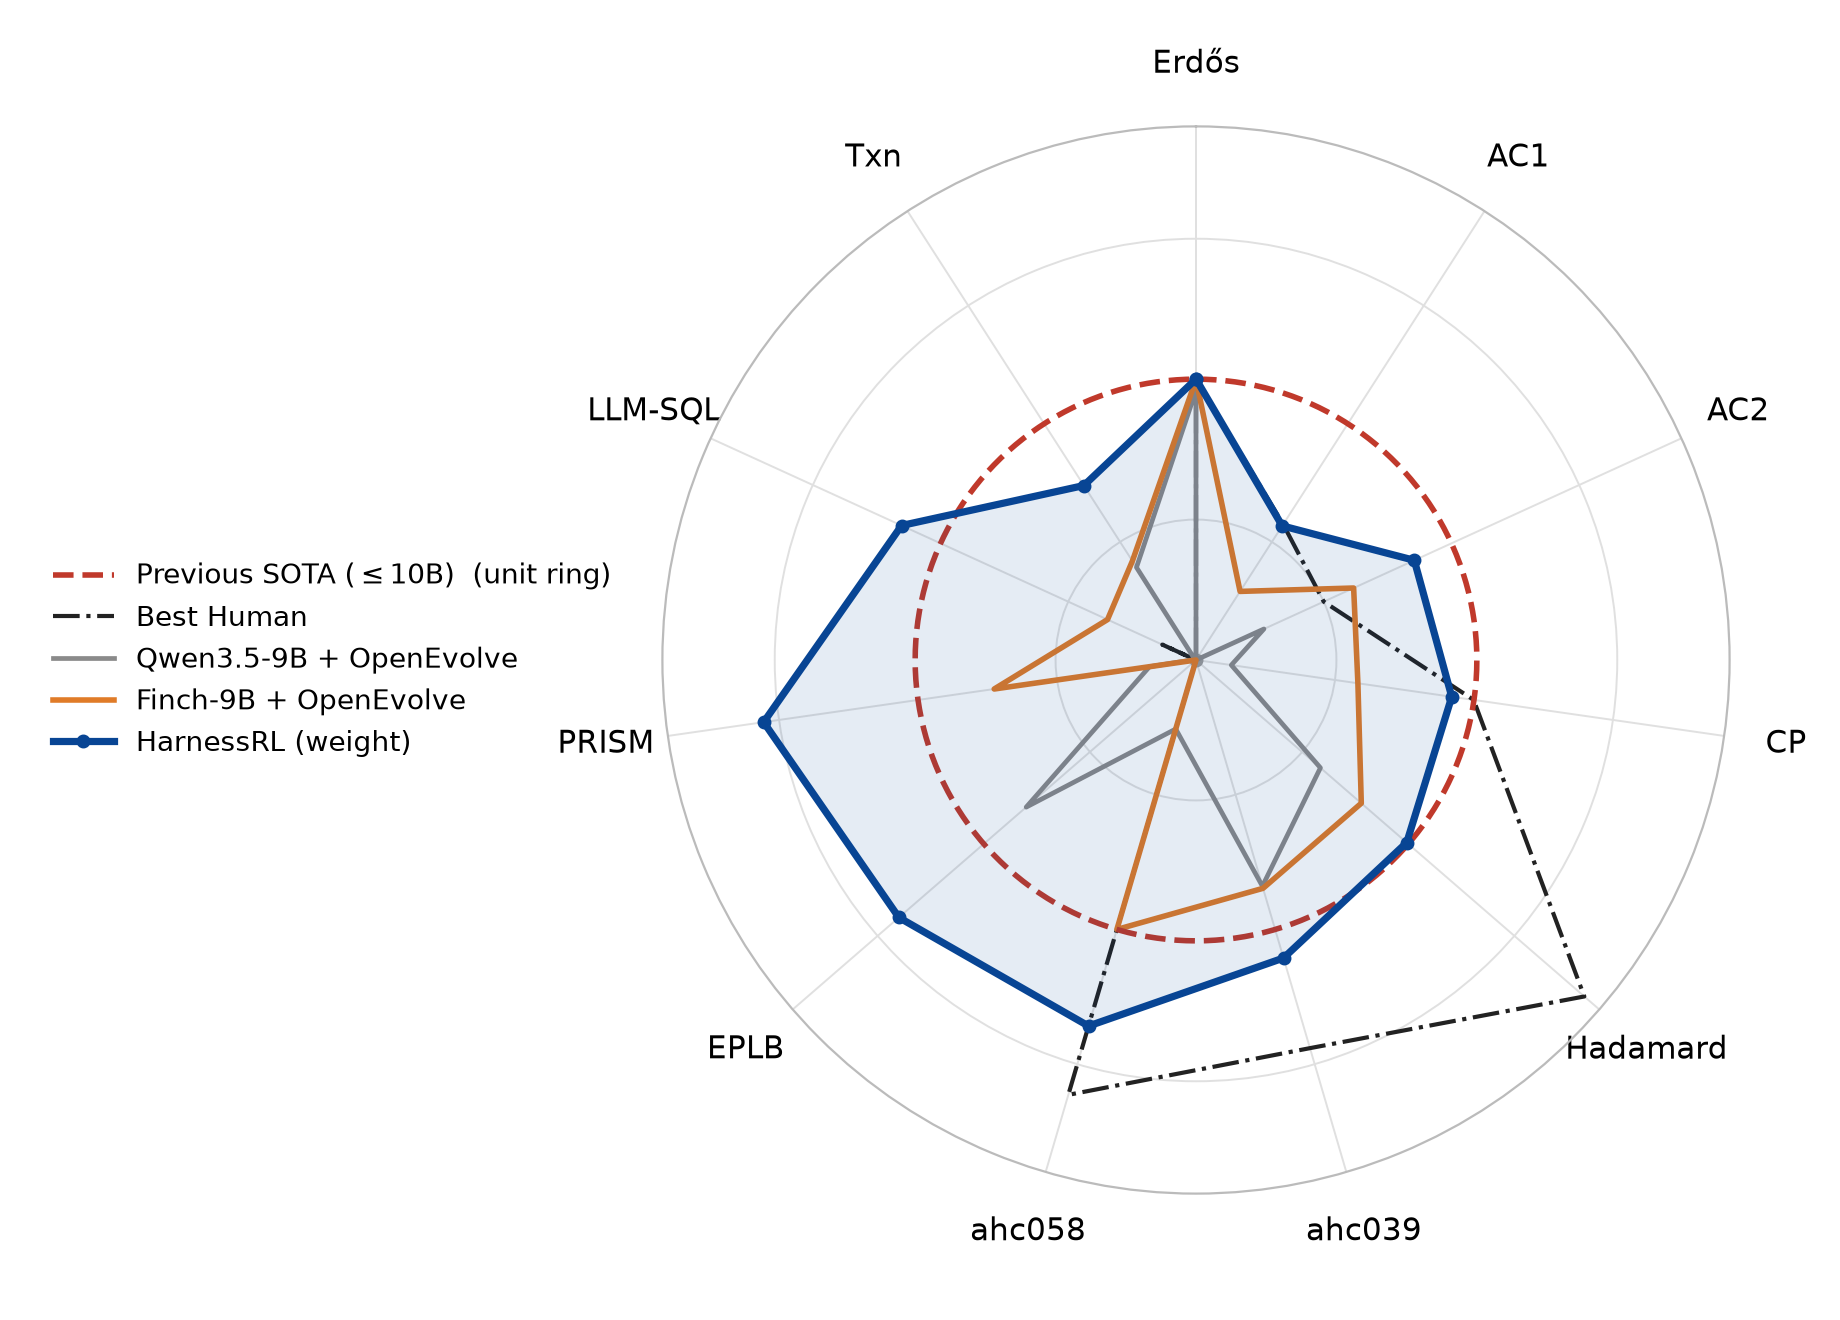
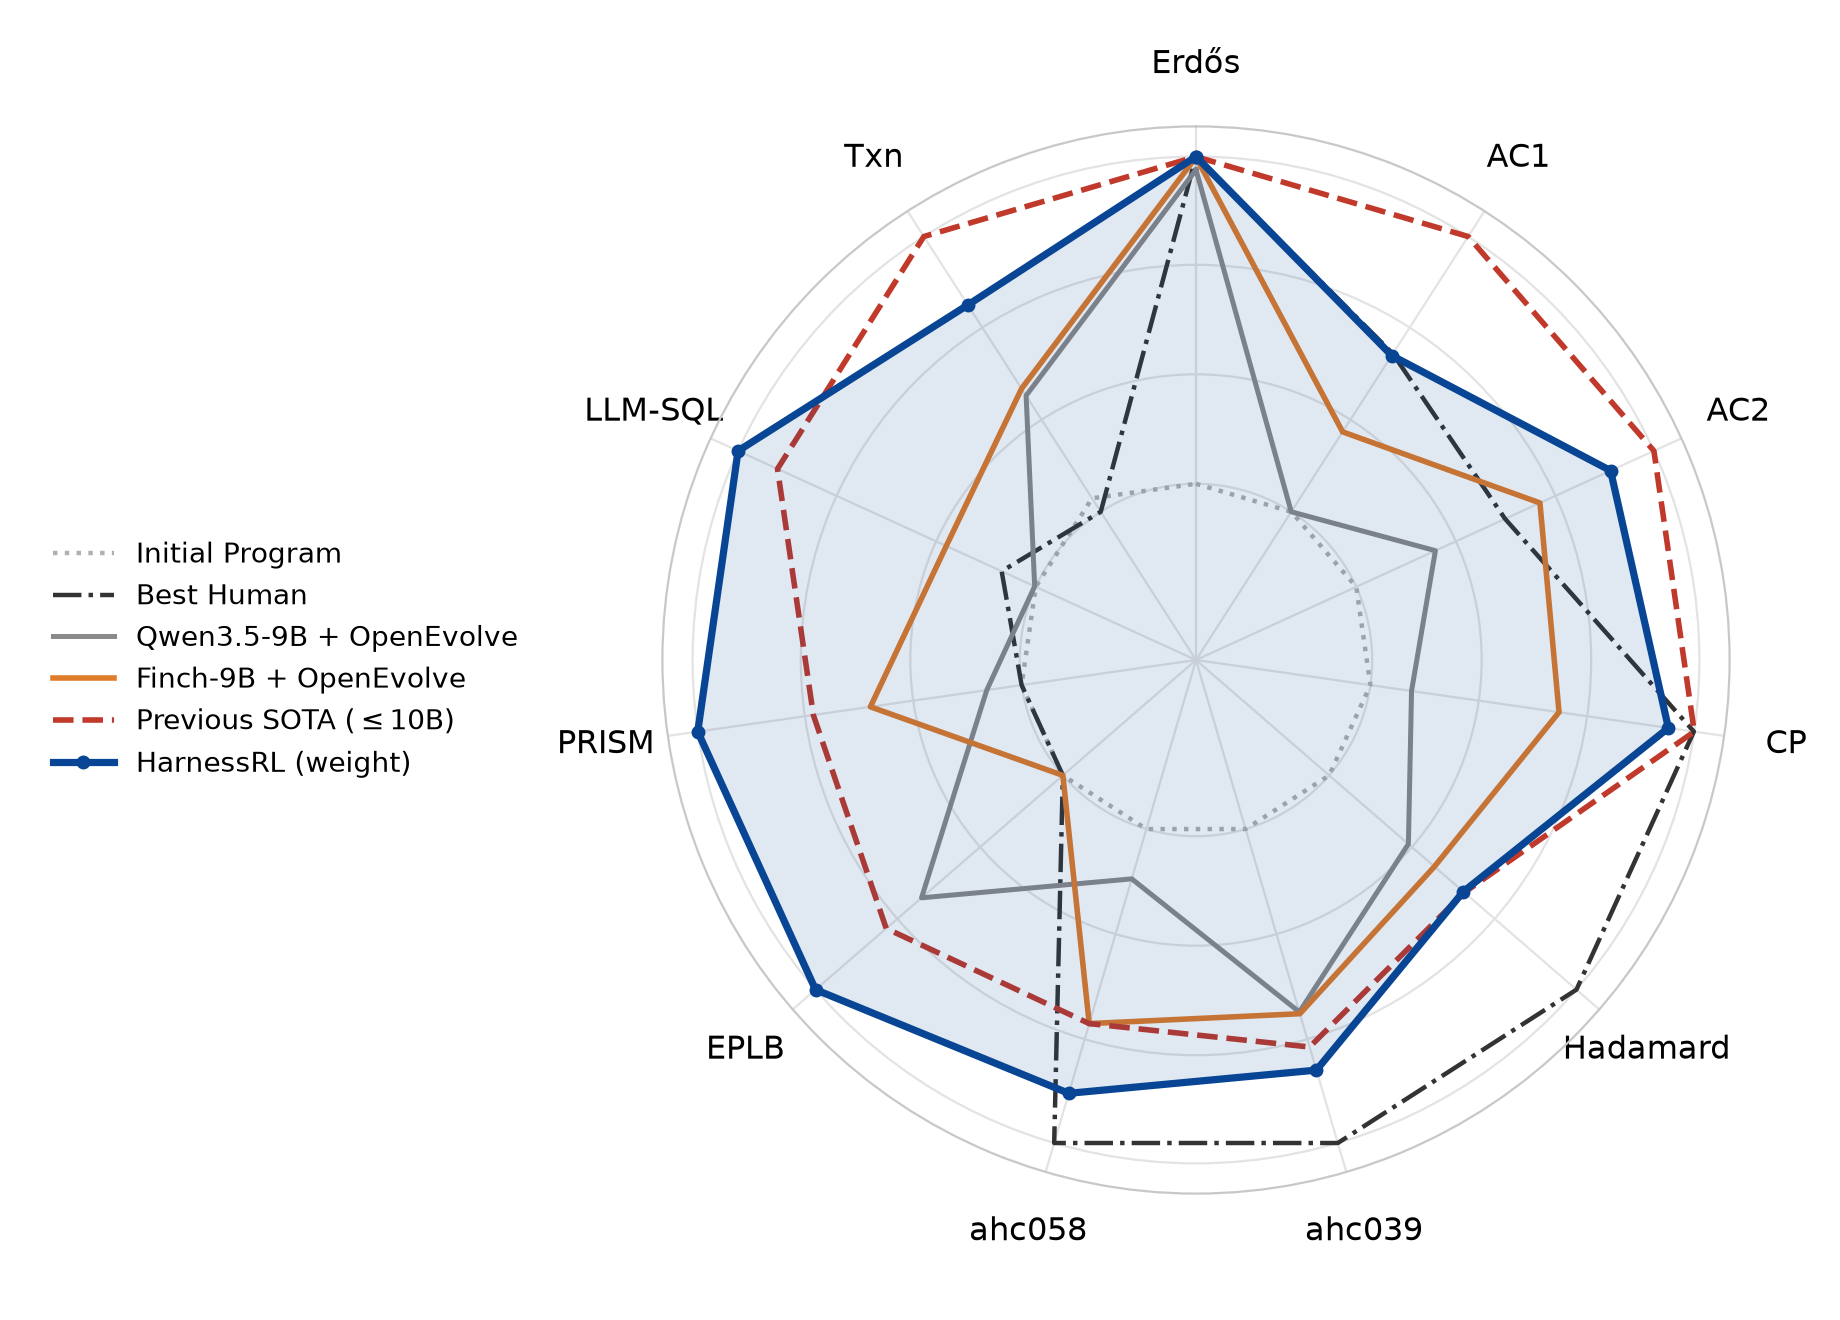
radar: conventional banded rescale, no reference ring
The seed-anchored version collapsed weak systems into the center and the
unit ring read poorly. Each axis now linearly rescales the plotted systems
into the [0.35, 1] band, so the initial program shows as an inner dotted
baseline instead of a point, previous SOTA returns to an ordinary red
dashed polygon, and no artificial circle is drawn. Caption updated to the
within-axis-comparison semantics.

diff --git a/scripts/draw_radar_method_ablation.py b/scripts/draw_radar_method_ablation.py
@@ -1,13 +1,10 @@
 #!/usr/bin/env python3
-"""Method-ablation radar over the 11 tasks.
+"""Method-comparison radar over the 11 tasks.
 
 Values are transcribed from papers/tables/proposer_update.tex (campaign-best
-protocol). Normalization gives every axis the same semantic anchors:
-    0 (center)  = Initial Program (the seed)
-    1 (ring)    = Previous <=10B SOTA  -> drawn as the red dashed unit circle
-so a series outside the ring sets a new state of the art on that axis.
-Minimization tasks (Erdos, AC1) are handled by measuring progress seed->SOTA.
-Scores below the seed clip at the center.
+protocol). Each axis linearly rescales the plotted systems into the band
+[R0, 1] (direction-corrected so outward is always better), so no system
+collapses to the center and shapes are comparable within an axis.
 """
 import numpy as np
 import matplotlib
@@ -16,64 +13,65 @@ import matplotlib.pyplot as plt
 
 TASKS = ["Erdős", "AC1", "AC2", "CP", "Hadamard",
          "ahc039", "ahc058", "EPLB", "PRISM", "LLM-SQL", "Txn"]
-
-INITIAL = [0.495056, 1.5186, 0.8558, 0.959764, 0.143275, 534850, 0,
-           0.1265, 21.89, 0.6856, 2824.86]
-SOTA    = [0.380932, 1.5031, 0.9472, 2.635983, 0.576400, 557168, 525286896,
-           0.1270, 24.70, 0.7341, 4761.90]
+LOWER_BETTER = {"Erdős", "AC1"}
+R0 = 0.35
 
 SERIES = {
+ "Initial Program":
+   ([0.495056, 1.5186, 0.8558, 0.959764, 0.143275, 534850, 0,
+     0.1265, 21.89, 0.6856, 2824.86],
+    dict(color="#b0b0b0", ls=":",  lw=1.6, zorder=3)),
  "Best Human":
    ([0.380927, 1.5097, 0.9015, 2.634000, 0.935673, 566997, 847674723,
      0.1265, 21.89, 0.6920, 2724.80],
-    dict(color="#222222", ls="-.", lw=1.5, zorder=4)),
+    dict(color="#333333", ls="-.", lw=1.6, zorder=4)),
  "Qwen3.5-9B + OpenEvolve":
    ([0.385512, 1.5186, 0.8801, 1.172702, 0.397184, 553582, 134486700,
      0.1269, 22.36, 0.6858, 3584.23],
-    dict(color="#8a8a8a", ls="-",  lw=1.7, zorder=5)),
+    dict(color="#8a8a8a", ls="-",  lw=1.8, zorder=5)),
  "Finch-9B + OpenEvolve":
    ([0.381100, 1.5141, 0.9122, 1.936000, 0.480585, 553759, 525286896,
      0.1265, 23.93, 0.7024, 3636.36],
     dict(color="#e07b28", ls="-",  lw=2.0, zorder=6)),
+ "Previous SOTA ($\\leq$10B)":
+   ([0.380932, 1.5031, 0.9472, 2.635983, 0.576400, 557168, 525286896,
+     0.1270, 24.70, 0.7341, 4761.90],
+    dict(color="#c0392b", ls="--", lw=2.0, zorder=7)),
  "HarnessRL (weight)":
    ([0.380919, 1.5098, 0.9339, 2.502000, 0.573283, 559534, 713552303,
      0.1272, 26.26, 0.7415, 4255.32],
-    dict(color="#084594", ls="-",  lw=2.6, zorder=8, fill=True)),
+    dict(color="#084594", ls="-",  lw=2.6, zorder=9, fill=True)),
 }
 
-def norm(vals):
-    out = []
-    for v, s0, s1 in zip(vals, INITIAL, SOTA):
-        out.append(max((v - s0) / (s1 - s0), 0.0))   # sign flips fall out
-    return np.array(out)
+vals = np.array([v for v, _ in SERIES.values()], dtype=float)
+norm = np.zeros_like(vals)
+for j, task in enumerate(TASKS):
+    col = vals[:, j].copy()
+    if task in LOWER_BETTER:
+        col = -col
+    lo, hi = col.min(), col.max()
+    norm[:, j] = R0 + (1 - R0) * (col - lo) / (hi - lo)
 
 N = len(TASKS)
 ang = np.linspace(0, 2 * np.pi, N, endpoint=False)
 ang_c = np.concatenate([ang, ang[:1]])
-RMAX = 1.9
 
 fig, ax = plt.subplots(figsize=(9.2, 6.6), subplot_kw=dict(polar=True))
 ax.set_theta_offset(np.pi / 2); ax.set_theta_direction(-1)
-ax.set_ylim(0, RMAX)
-ax.set_yticks([0.5, 1.5]); ax.set_yticklabels([])
-ax.grid(color="#e0e0e0", lw=0.7)
-ax.spines["polar"].set_color("#bbbbbb")
-ax.set_xticks(ang); ax.set_xticklabels(TASKS, fontsize=11)
+ax.set_ylim(0, 1.06)
+ax.set_yticks([0.35, 0.5675, 0.785, 1.0]); ax.set_yticklabels([])
+ax.grid(color="#e3e3e3", lw=0.8)
+ax.spines["polar"].set_color("#c8c8c8")
+ax.set_xticks(ang); ax.set_xticklabels(TASKS, fontsize=11.5)
 ax.tick_params(pad=12)
 
-# the SOTA ring and the seed center
-th = np.linspace(0, 2 * np.pi, 361)
-ax.plot(th, np.ones_like(th), color="#c0392b", ls="--", lw=2.0, zorder=7,
-        label="Previous SOTA ($\\leq$10B)  (unit ring)")
-ax.plot(0, 0, marker="o", ms=4, color="#9a9a9a", zorder=3)
-
-for name, (v, st) in SERIES.items():
-    r = norm(v); r = np.concatenate([r, r[:1]])
+for (name, (v, st)), row in zip(SERIES.items(), norm):
+    r = np.concatenate([row, row[:1]])
     ax.plot(ang_c, r, color=st["color"], ls=st["ls"], lw=st["lw"],
             zorder=st["zorder"], label=name,
             marker="o" if st.get("fill") else None, ms=4)
     if st.get("fill"):
-        ax.fill(ang_c, r, color=st["color"], alpha=0.10, zorder=st["zorder"]-1)
+        ax.fill(ang_c, r, color=st["color"], alpha=0.12, zorder=st["zorder"]-1)
 
 fig.legend(*ax.get_legend_handles_labels(), loc="center left",
            bbox_to_anchor=(0.015, 0.5), fontsize=10, frameon=False,

diff --git a/papers/subtex/experiment.tex b/papers/subtex/experiment.tex
@@ -63,13 +63,13 @@ presented in Appendix~\ref{app:infra}.
   \centering
   \includegraphics[width=\linewidth]{figures/radar_method_ablation.pdf}
   \captionof{figure}{\textbf{Method comparison across the eleven tasks.}
-  Every axis shares the same anchors: the center is the task's initial
-  program and the red dashed unit ring is the previous $\le$10B best, so
-  crossing the ring sets a new state of the art on that axis (scores below
-  the seed clip at the center).  The frozen executor under learned harnesses
-  (\method, filled) crosses the ring on five axes and touches it on
-  Erd\H{o}s; Best Human still owns Hadamard and the contest tasks' upper
-  range.}
+  Each axis linearly rescales the plotted systems (direction-corrected, so
+  outward is better); shapes compare within an axis, not across axes.  The
+  frozen executor under learned harnesses (\method, filled) matches or
+  exceeds the previous $\le$10B best on six axes---Erd\H{o}s, ahc039,
+  ahc058, EPLB, PRISM, and LLM-SQL, the last carrying the provenance caveat
+  of Table~\ref{tab:main_results}---while Best Human keeps Hadamard and the
+  contest tasks' ceiling.}
   \label{fig:radar}
 \end{minipage}\hfill
 \begin{minipage}[c]{0.40\linewidth}
